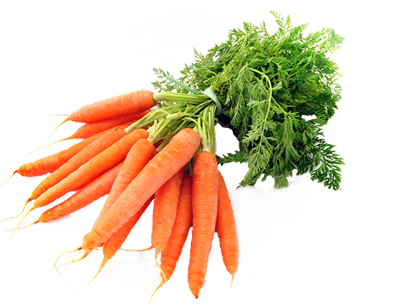
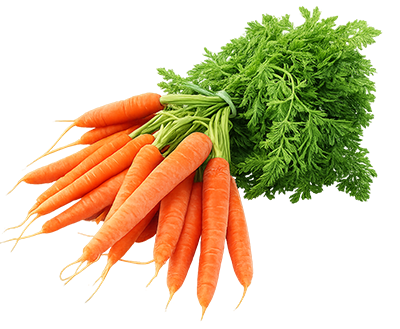
Add lightbox in products gallery

diff --git a/app/_components/ui/ProductThumbSlider.tsx b/app/_components/ui/ProductThumbSlider.tsx
@@ -1,11 +1,13 @@
 "use client";
 
-import { useState } from "react";
+import { useEffect, useState } from "react";
 import { Swiper, SwiperSlide } from "swiper/react";
 import { FreeMode, Thumbs } from "swiper/modules";
 import { Swiper as SwiperType } from "swiper";
 import Image from "next/image";
 import { ProductImages } from "@/app/_types/product.types";
+import PhotoSwipeLightbox from "photoswipe/lightbox";
+import "photoswipe/style.css";
 
 type ProductThumbSlider = {
   images: ProductImages[];
@@ -14,29 +16,56 @@ type ProductThumbSlider = {
 const ProductThumbSlider = ({ images }: ProductThumbSlider) => {
   const [thumbsSwiper, setThumbsSwiper] = useState<SwiperType | null>(null);
 
+    useEffect(() => {
+      console.log("test")
+    const lightbox = new PhotoSwipeLightbox({
+      gallery: "#eas-product-gallery",
+      children: "a",
+      pswpModule: () => import("photoswipe"),
+      showHideAnimationType: "zoom",
+      arrowPrev: true,
+        arrowNext: true,
+      bgOpacity: 0.3
+    });
+
+    lightbox.init();
+
+    return () => lightbox.destroy();
+  }, []);
+
   return (
     <>
-      <Swiper
-        spaceBetween={32}
-        navigation={true}
-        thumbs={{ swiper: thumbsSwiper }}
-        modules={[FreeMode, Thumbs]}
-        loop={true}
-      >
-        {images.map((image) => (
-          <SwiperSlide key={image.url}>
-            <div className="flex aspect-square w-full items-center justify-center rounded-[5px] border border-muted-400">
-              <Image
-                src={image.url}
-                alt={image.alt}
-                className="h-auto max-w-[250px] sm:max-w-[400px]"
-                width={400}
-                height={304}
-              />
-            </div>
-          </SwiperSlide>
-        ))}
-      </Swiper>
+      <div id="eas-product-gallery">
+        <Swiper
+          spaceBetween={32}
+          navigation={true}
+          thumbs={{ swiper: thumbsSwiper }}
+          modules={[FreeMode, Thumbs]}
+        >
+          {images.map((image) => (
+            <SwiperSlide key={image.url}>
+              <a
+                href={image.url}
+                data-pswp-width={400}
+                data-pswp-height={329}
+                className="cursor-zoom-in"
+                target="_blank"
+                rel="noreferrer"
+              >
+                <div className="flex aspect-square w-full items-center justify-center rounded-[5px] border border-muted-400">
+                  <Image
+                    src={image.url}
+                    alt={image.alt}
+                    className="h-auto max-w-[250px] object-cover sm:max-w-[400px]"
+                    width={400}
+                    height={329}
+                  />
+                </div>
+              </a>
+            </SwiperSlide>
+          ))}
+        </Swiper>
+      </div>
       <Swiper
         onSwiper={setThumbsSwiper}
         spaceBetween={16}

diff --git a/app/_components/ui/HeroSection.tsx b/app/_components/ui/HeroSection.tsx
@@ -27,7 +27,7 @@ const HeroSection = ({
         !background && "bg-slate-600",
       )}
     >
-      <div className="mx-auto max-w-[1320px] -mt-16">
+      <div className="mx-auto max-w-[1320px] -mt-20">
         <h1 className="mb-1 text-4xl font-black italic tracking-tight text-white md:mb-4 md:text-6xl">
           {before}
           {highlight && (
@@ -44,7 +44,7 @@ const HeroSection = ({
           {after}
         </h1>
         <nav>
-          <ul className="flex justify-center gap-[10px] text-lg font-medium text-white md:text-base">
+          <ul className="flex justify-center gap-[10px] text-xs font-medium text-white md:text-base">
             {breadcrumb.map((item, index) => (
               <li
                 className={`${index === breadcrumb.length - 1 ? "font-bold text-accent-700" : "after:ml-[10px] after:content-['/']"}`}

diff --git a/app/_components/ui/Button.tsx b/app/_components/ui/Button.tsx
@@ -49,11 +49,11 @@ const Button = ({
         children
       ) : (
         <span className="relative h-full overflow-hidden">
-          <span className="flex items-center gap-2 transition-transform duration-300 group-hover:-translate-y-full">
+          <span className="flex items-center gap-2 transition-transform duration-500 group-hover:-translate-y-full">
             {children}
           </span>
 
-          <span className="absolute left-0 top-full flex items-center gap-2 transition-transform duration-300 group-hover:-translate-y-full">
+          <span className="absolute left-0 top-full flex items-center gap-2 transition-transform duration-500 group-hover:-translate-y-full">
             {children}
           </span>
         </span>

diff --git a/app/products/[productId]/page.tsx b/app/products/[productId]/page.tsx
@@ -30,14 +30,20 @@ const productTemp = {
     {
       url: "/products-gallery/carrot-1.png",
       alt: "eas products carrot 1",
+      width: 400,
+      height: 304,
     },
     {
       url: "/products-gallery/carrot-2.png",
       alt: "eas products carrot 2",
+      width: 400,
+      height: 329,
     },
     {
       url: "/products-gallery/carrot-3.png",
       alt: "eas products carrot 3",
+      width: 400,
+      height: 260,
     },
   ],
 };
